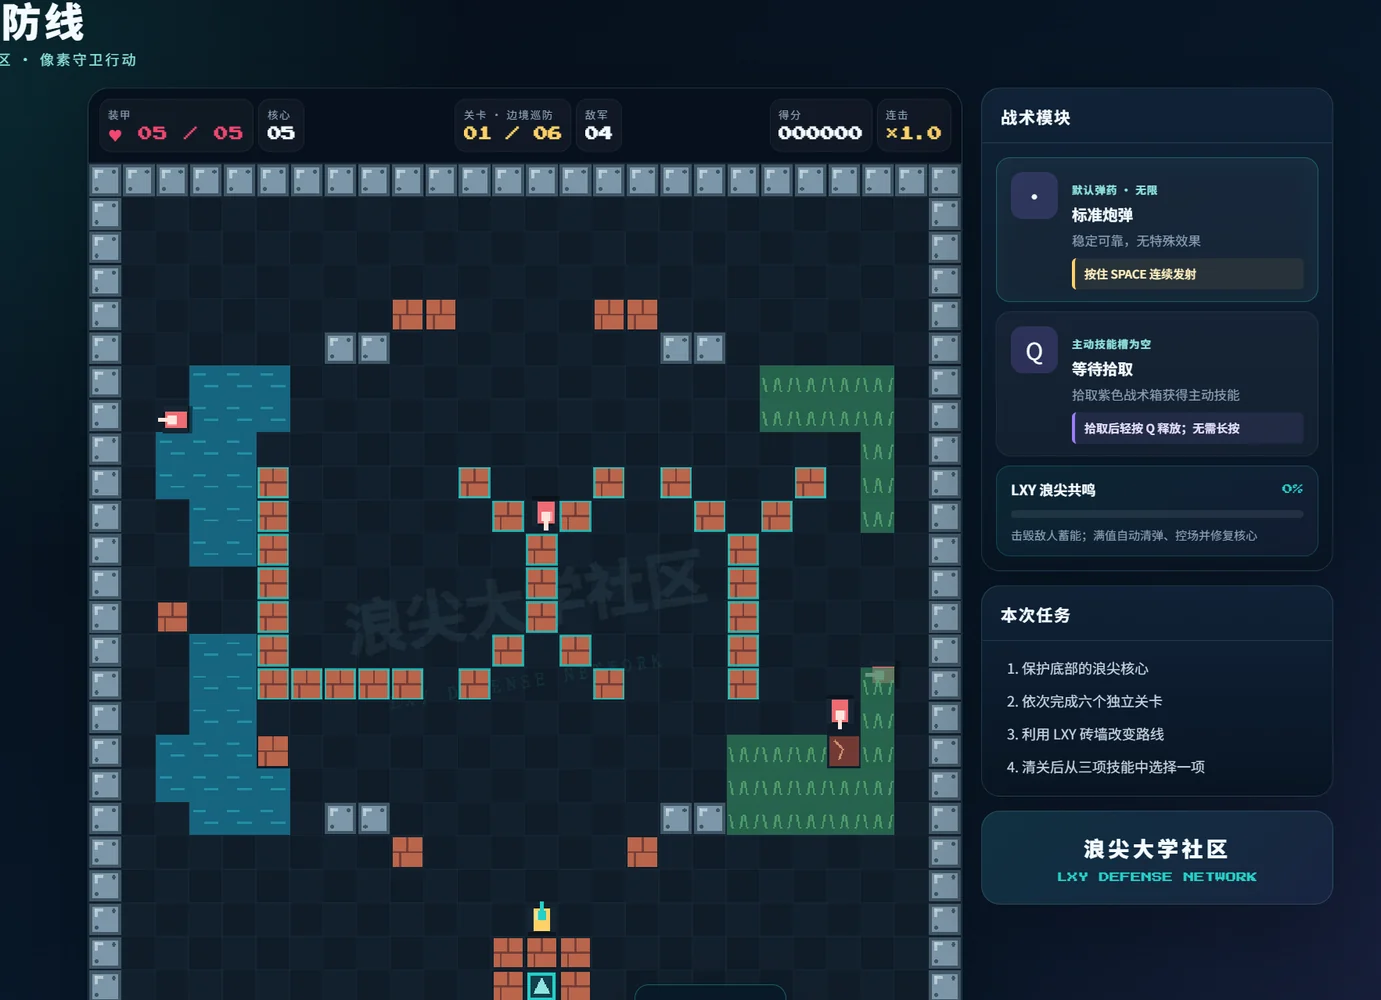
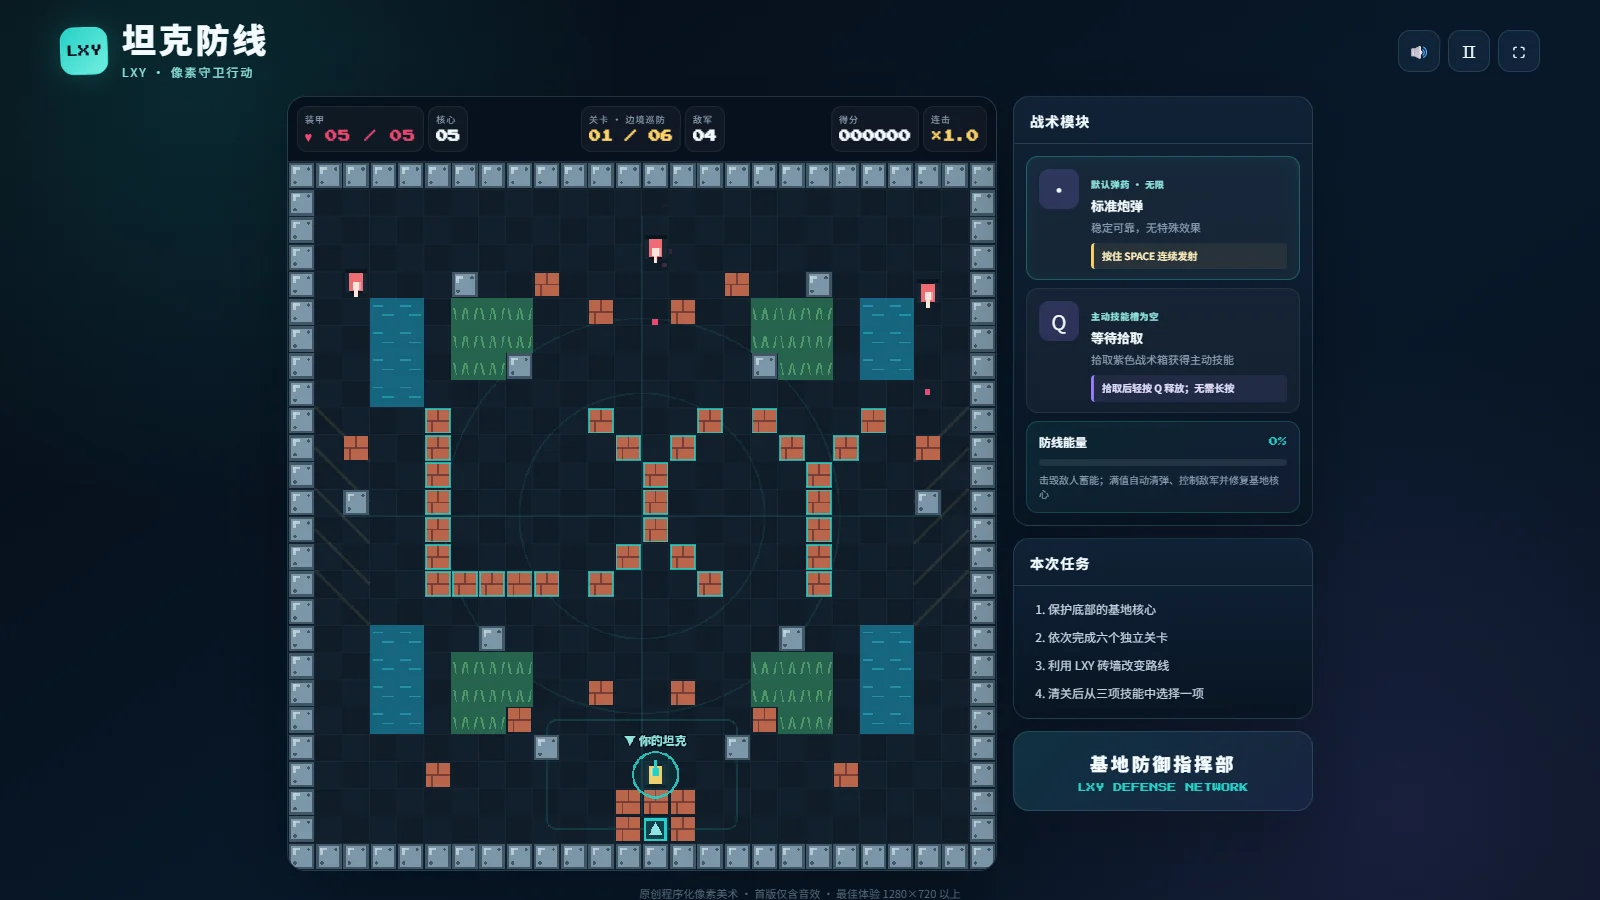
Refine original portfolio density and mobile layouts

diff --git a/styles.css b/styles.css
@@ -323,7 +323,7 @@ body.has-scrolled .site-header {
 
 .hero-contact-panel a {
   display: grid;
-  grid-template-columns: 58px minmax(0, 1fr);
+  grid-template-columns: 68px minmax(0, 1fr);
   gap: 12px;
   align-items: center;
   padding: 7px 12px;
@@ -341,6 +341,7 @@ body.has-scrolled .site-header {
 }
 
 .hero-contact-panel span {
+  white-space: nowrap;
   color: #e6d6a7;
   font-size: 0.66rem;
   font-weight: 800;
@@ -1122,7 +1123,9 @@ body.has-scrolled .site-header {
 
 .certificate-grid {
   display: grid;
-  grid-template-columns: repeat(4, minmax(0, 1fr));
+  grid-template-columns: repeat(3, minmax(0, 1fr));
+  width: min(100%, 960px);
+  margin: 0 auto;
   gap: 18px;
   align-items: stretch;
 }
@@ -1130,9 +1133,9 @@ body.has-scrolled .site-header {
 .certificate-card {
   display: flex;
   flex-direction: column;
-  gap: 16px;
+  gap: 12px;
   margin: 0;
-  padding: 14px 14px 20px;
+  padding: 12px 12px 16px;
   overflow: hidden;
   border: 1px solid rgba(105, 67, 39, 0.2);
   border-radius: 18px;
@@ -1150,19 +1153,13 @@ body.has-scrolled .site-header {
   transform: translateY(-4px);
 }
 
-.certificate-card-wide { grid-column: span 2; }
-.certificate-card-tall-first { grid-column: 2; }
-.certificate-card-tall-second { grid-column: 3; }
-
 .certificate-card img {
   width: 100%;
+  height: 174px;
   border-radius: 10px;
   object-fit: contain;
   background: #fffaf1;
 }
-
-.certificate-card-wide img { aspect-ratio: 3 / 2; }
-.certificate-card-tall img { height: 390px; }
 
 .certificate-card > span {
   display: grid;
@@ -1172,7 +1169,7 @@ body.has-scrolled .site-header {
 
 .certificate-card strong {
   color: #3e3025;
-  font-size: 0.94rem;
+  font-size: 0.88rem;
   line-height: 1.5;
 }
 
@@ -1664,11 +1661,9 @@ body.night-section-in-view .leaf-field { opacity: 0; }
   .interest-psychology { grid-column: span 2; }
   .works-heading-layout { grid-template-columns: minmax(0, 1fr) auto; gap: 34px; }
   .featured-work { grid-template-columns: 1fr; }
-  .phone-gallery { width: min(100%, 620px); min-height: 590px; margin: 0 auto; }
-  .certificate-grid { grid-template-columns: repeat(2, minmax(0, 1fr)); }
-  .certificate-card-wide { grid-column: span 2; }
-  .certificate-card-tall-first,
-  .certificate-card-tall-second { grid-column: auto; }
+  .phone-gallery { width: min(100%, 520px); min-height: 480px; margin: 0 auto; }
+  .certificate-grid { grid-template-columns: repeat(3, minmax(0, 1fr)); gap: 14px; }
+  .certificate-card img { height: 146px; }
   .closing-inner { grid-template-columns: 1fr; gap: 32px; }
   .closing-copy h2 { max-width: 11em; }
   .visit-stats,
@@ -1681,71 +1676,108 @@ body.night-section-in-view .leaf-field { opacity: 0; }
   .site-mark { width: 38px; height: 38px; font-size: 0.68rem; }
   .site-nav { justify-content: flex-start; gap: 16px; }
   .site-nav a { font-size: 0.78rem; }
-  .hero { min-height: 620px; }
+  /* 手机端按内容自然撑开首屏，不再用大段绝对定位留白。 */
+  .hero { min-height: 0; height: auto; }
   .hero-video { object-position: center; }
   .hero-overlay {
     background:
       linear-gradient(180deg, rgba(8, 20, 17, 0.08) 25%, rgba(8, 20, 17, 0.68) 100%),
       linear-gradient(90deg, rgba(8, 20, 17, 0.08), rgba(8, 20, 17, 0.2));
   }
-  .hero-content { top: auto; right: 24px; bottom: 142px; left: 24px; width: auto; transform: none; }
-  .avatar-orbit { width: 142px; height: 142px; }
-  .hero-avatar { width: 116px; height: 116px; }
-  .hero h1 { margin-top: 14px; font-size: 3.2rem; }
+  .hero-content { position: relative; inset: auto; width: var(--content); margin: 0 auto; padding: 32px 0 102px; transform: none; }
+  .avatar-orbit { width: 118px; height: 118px; }
+  .hero-avatar { width: 98px; height: 98px; }
+  .hero h1 { margin-top: 12px; font-size: 3rem; }
   .hero-meta { font-size: 0.9rem; letter-spacing: 0.1em; }
-  .hero-profile { font-size: 0.76rem; }
-  .hero-contact-panel { width: min(100%, 330px); margin-top: 11px; gap: 4px; }
-  .hero-contact-panel a { grid-template-columns: 52px minmax(0, 1fr); padding: 6px 10px; }
-  .hero-contact-panel strong { font-size: 0.68rem; }
-  .section { padding: 82px 0; }
-  .section-heading { margin-bottom: 42px; }
+  .hero-profile { margin-top: 2px; font-size: 0.78rem; }
+  .hero-contact-panel { width: min(100%, 330px); margin-top: 14px; gap: 5px; scroll-margin-top: 88px; }
+  .hero-contact-panel a { grid-template-columns: 68px minmax(0, 1fr); min-height: 44px; gap: 8px; padding: 7px 12px; }
+  .hero-contact-panel span { font-size: 0.7rem; }
+  .hero-contact-panel strong { font-size: 0.76rem; }
+  .scroll-cue { bottom: 12px; padding-top: 6px; }
+  .scroll-cue i { height: 22px; }
+  .section { padding: 44px 0; }
+  .section-heading { margin-bottom: 24px; }
+  .section-index { margin-bottom: 12px; padding: 5px 10px; font-size: 0.78rem; }
+  .section-heading h2,
+  .qixi-heading h2 { font-size: clamp(1.7rem, 6.8vw, 2.4rem); line-height: 1.35; }
+  .section-heading p,
+  .qixi-heading p { margin-top: 12px; font-size: 0.9rem; line-height: 1.75; }
   .section-interests,
   .section-works,
   .section-learning { background-attachment: scroll; }
   .section-about { background-attachment: scroll; }
-  .about-reading { padding: 26px 20px; border-radius: 24px; }
-  .about-inline-image { float: none; width: min(100%, 390px); aspect-ratio: 0.78; margin: 0 auto 30px; }
-  .about-copy { font-size: 1rem; line-height: 1.94; }
-  .interest-grid { grid-template-columns: 1fr; }
+  .about-reading { padding: 22px 18px; border-radius: 24px; }
+  .about-inline-image { float: right; width: 34%; aspect-ratio: 0.7; margin: 4px 0 12px 16px; border-width: 4px; border-radius: 64px 64px 14px 14px; }
+  .about-copy { font-size: 1rem; line-height: 1.85; }
+  .about-copy p { margin-bottom: 1.1em; }
+  .about-copy p:last-child { margin-bottom: 0; }
+  .about-copy p:first-child::first-letter { font-size: 3.2em; }
+  /* 兴趣与证书保留双列，正文不折叠、不截断。 */
+  .interest-grid { grid-template-columns: repeat(2, minmax(0, 1fr)); gap: 12px; }
   .interest-psychology { grid-column: auto; }
-  .interest-card { min-height: auto; }
-  .works-heading-layout { grid-template-columns: 1fr; }
-  .vertical-showcase { width: min(100%, 360px); min-height: 230px; justify-content: center; justify-self: center; }
-  .featured-work { padding: 24px 18px 34px; border-radius: 24px; }
-  .phone-gallery { min-height: 470px; }
-  .phone-shot { width: 48%; border-width: 5px; border-radius: 22px; }
-  .phone-shot-left { left: -2%; }
-  .phone-shot-main { left: 26%; }
-  .phone-shot-right { right: -2%; }
-  .project-grid { grid-template-columns: 1fr; }
-  .certificate-grid { grid-template-columns: 1fr; }
-  .certificate-card-wide,
-  .certificate-card-tall-first,
-  .certificate-card-tall-second { grid-column: auto; }
-  .certificate-card-tall img { height: 470px; }
-  .qixi-section { padding-bottom: 72px; }
-  .qixi-frame { min-height: 74svh; border-radius: 18px; }
+  .interest-card { display: flex; flex-direction: column; min-height: 0; padding: 16px 14px; border-radius: 18px; }
+  .interest-icon { width: 34px; height: 34px; border-radius: 11px; font-size: 0.8rem; }
+  .interest-card h3 { margin: 10px 0 7px; font-size: 1.08rem; }
+  .interest-card p { margin-bottom: 12px; font-size: 0.86rem; line-height: 1.7; }
+  .interest-card small { margin-top: auto; font-size: 0.67rem; letter-spacing: 0.02em; }
+  .works-heading-layout { grid-template-columns: minmax(0, 1fr) auto; gap: 16px; margin-bottom: 24px; align-items: center; }
+  .works-heading-layout .section-heading { margin-bottom: 0; }
+  .vertical-showcase { gap: 9px; min-height: 0; padding: 16px 10px; border-radius: 18px; }
+  .vertical-showcase > span { font-size: 0.7rem; letter-spacing: 0.02em; }
+  .featured-work { gap: 22px; padding: 20px 16px; border-radius: 24px; }
+  .phone-gallery { display: grid; grid-template-columns: repeat(3, minmax(0, 1fr)); align-items: center; gap: 8px; width: min(100%, 450px); min-height: 0; }
+  .phone-shot { position: static; width: 100%; border-width: 3px; border-radius: 14px; transform: none; }
+  .phone-shot-main { transform: none; }
+  .phone-shot-left,
+  .phone-shot-right { transform: none; }
+  .work-tags { gap: 6px; margin-bottom: 12px; }
+  .work-tags span { padding: 3px 8px; font-size: 0.67rem; }
+  .work-copy h3,
+  .project-card h3 { margin-bottom: 12px; font-size: 1.9rem; }
+  .work-copy p,
+  .project-card p { font-size: 0.9rem; line-height: 1.75; }
+  .feature-list { gap: 10px; margin: 14px 0 18px; font-size: 0.88rem; line-height: 1.75; }
+  .feature-list li { padding: 12px 12px 12px 36px; }
+  .feature-list li::before { top: 13px; left: 10px; }
+  .project-links,
+  .project-links-compact { gap: 8px; margin-top: 16px; }
+  .url-card { gap: 2px; padding: 9px 30px 9px 11px; border-radius: 12px; }
+  .url-card::after { right: 10px; }
+  .url-card strong { font-size: 0.69rem; }
+  .project-grid { grid-template-columns: 1fr; gap: 18px; margin-top: 18px; }
+  .project-card-body { padding: 20px 16px; }
+  .certificate-grid { grid-template-columns: repeat(2, minmax(0, 1fr)); gap: 12px; }
+  .certificate-card { gap: 8px; padding: 8px 8px 12px; border-radius: 14px; }
+  .certificate-card img { height: clamp(104px, 29vw, 160px); border-radius: 7px; }
+  .certificate-card > span { gap: 4px; padding: 0 2px; }
+  .certificate-card strong { font-size: 0.76rem; }
+  .certificate-card small { font-size: 0.65rem; }
+  .qixi-section { padding: 44px 0; }
+  .qixi-heading { margin-bottom: 22px; }
+  .button-night { margin-top: 16px; }
+  .qixi-frame { min-height: clamp(320px, 48svh, 460px); border-radius: 18px; }
   .closing-section,
   .closing-inner { min-height: auto; }
-  .closing-inner { padding: 100px 0 76px; }
-  .closing-copy h2 { font-size: clamp(2.85rem, 14vw, 4.8rem); }
-  .site-time-card { padding: 25px 18px 28px; border-radius: 22px; }
+  .closing-inner { gap: 20px; padding: 48px 0 36px; }
+  .closing-copy h2 { margin: 12px 0; font-size: clamp(2.3rem, 10vw, 3.6rem); line-height: 1.2; }
+  .closing-copy p { margin: 10px 0 0; font-size: 0.88rem; }
+  .site-time-card { padding: 20px 16px; border-radius: 22px; }
+  .site-time-head { gap: 8px; margin-bottom: 20px; }
   .uptime-digits { gap: 4px; }
   .uptime-unit strong { font-size: clamp(1.55rem, 8vw, 2.2rem); }
   .visit-stats { grid-template-columns: 1fr 1fr; gap: 10px; }
-  .visit-stat-card { min-height: 132px; padding: 18px 14px; }
+  .visit-stat-card { min-height: 110px; padding: 14px 12px; }
   .closing-orbit-one { right: -100px; }
   .closing-orbit-two { right: -42px; }
   .site-footer { padding: 16px; }
 }
 
 @media (max-width: 420px) {
-  .phone-gallery { min-height: 420px; }
-  .phone-shot { width: 51%; }
-  .phone-shot-main { left: 24.5%; }
-  .project-actions .button { width: 100%; }
-  .certificate-card-tall img { height: 420px; }
-  .site-time-head { align-items: flex-start; flex-direction: column; margin-bottom: 24px; }
+  .interest-grid,
+  .certificate-grid { gap: 10px; }
+  .interest-card { padding: 14px 12px; }
+  .site-time-head { font-size: 0.74rem; letter-spacing: 0.06em; }
   .visit-stat-card { grid-template-columns: 1fr; }
   .visit-stat-icon { display: none; }
 }

diff --git a/index.html b/index.html
@@ -52,7 +52,7 @@
         <p class="hero-meta" data-typewriter data-speed="76">河师大 · 软院 · 26级新生</p>
         <p class="hero-profile">男 · 软件工程（游戏动画方向）</p>
         <address class="hero-contact-panel" id="contact" aria-label="联系方式">
-          <a href="tel:15660645882"><span>电话</span><strong>156 6064 5882</strong></a>
+          <a href="tel:15660645882"><span>电话/微信</span><strong>156 6064 5882</strong></a>
           <a href="mailto:3603098347@qq.com"><span>邮箱</span><strong>3603098347@qq.com</strong></a>
           <a href="https://github.com/lixinyan1025-commits" target="_blank" rel="noopener noreferrer"><span>GitHub</span><strong>lixinyan1025-commits</strong></a>
         </address>
@@ -133,7 +133,7 @@
           <div class="project-grid">
             <article class="project-card" data-reveal>
               <a class="project-media" href="https://lixinyan1025-commits.github.io/tank-defense/" target="_blank" rel="noopener noreferrer" aria-label="在线试玩坦克防线">
-                <img src="assets/projects/tank-defense.webp" alt="坦克防线网页版游戏画面" loading="lazy" />
+                <img src="assets/projects/tank-defense.webp" alt="坦克防线最新版游戏实景：基地核心、LXY 地形与战术模块" width="1600" height="900" loading="lazy" />
               </a>
               <div class="project-card-body">
                 <div class="work-tags"><span>AI 辅助作品</span><span>网页游戏</span></div>
@@ -172,7 +172,7 @@
             <p>在了解 AI 相关内容的过程中完成的课程和认证。点击任意证书，可以查看完整原图。</p>
           </div>
 
-          <div class="certificate-grid">
+          <div class="certificate-grid" role="group" aria-label="六项证书，点击缩略图查看高清原图">
             <button class="certificate-card certificate-card-wide" type="button" data-certificate data-full="assets/certificates/original/clouder-agent-app.png" data-title="基于百炼平台构建智能体应用">
               <img src="assets/certificates/thumb/clouder-agent-app.webp" alt="基于百炼平台构建智能体应用证书" loading="lazy" />
               <span><strong>基于百炼平台构建智能体应用</strong><small>阿里云 Apsara Clouder 专项技能认证</small></span>

diff --git a/script.js b/script.js
@@ -323,11 +323,20 @@
 
   const leafField = document.querySelector(".leaf-field");
   let liveLeaves = 0;
+  const mobileLeaves = window.matchMedia("(max-width: 719px)");
+
+  // 旋转设备或缩窄窗口后立即回落到手机上限，不留下桌面端的数量。
+  mobileLeaves.addEventListener("change", () => {
+    if (!leafField) return;
+    const maximum = mobileLeaves.matches ? 20 : 38;
+    [...leafField.children].slice(maximum).forEach((leaf) => leaf.remove());
+    liveLeaves = leafField.childElementCount;
+  });
 
   function spawnLeaf(initial = false) {
     if (!leafField || reducedMotion.matches || document.hidden || body.classList.contains("night-section-in-view")) return;
-    const isMobile = window.innerWidth < 720;
-    const maximum = isMobile ? 11 : 20;
+    const isMobile = mobileLeaves.matches;
+    const maximum = isMobile ? 20 : 38;
     if (liveLeaves >= maximum) return;
 
     const leaf = document.createElement("i");
@@ -359,12 +368,13 @@
   }
 
   if (!reducedMotion.matches) {
-    const initialCount = window.innerWidth < 720 ? 8 : 14;
+    // 同时增加首屏数量与补充频率，避免只提高上限却看不到更多落叶。
+    const initialCount = mobileLeaves.matches ? 20 : 38;
     for (let index = 0; index < initialCount; index += 1) spawnLeaf(true);
 
     function scheduleLeaf() {
-      const isMobile = window.innerWidth < 720;
-      const delay = isMobile ? 1000 + Math.random() * 500 : 550 + Math.random() * 350;
+      const isMobile = mobileLeaves.matches;
+      const delay = isMobile ? 420 + Math.random() * 140 : 240 + Math.random() * 100;
       window.setTimeout(() => {
         spawnLeaf(false);
         scheduleLeaf();

diff --git a/README.md b/README.md
@@ -18,6 +18,14 @@
 - 竹叶与金色小叶飘落、纵向流水文字、减少动态效果支持和响应式布局
 - 页面自身不播放音乐；进入七夕展示后由嵌入网页管理其音乐
 
+## 2026-09-10 更新
+
+- 落叶上限调整为桌面 38 片、手机 20 片，同时增加首屏数量与生成频率；缩窄窗口后自动回落到手机上限。
+- 证书采用桌面三列、手机两列的紧凑缩略图，保持原比例，点击仍可查看六张高清原图。
+- 电话标签调整为“电话/微信”，号码和拨号链接不变。
+- 坦克防线截图重新采集自在线最新版的实际对局，保存为本地 WebP，不依赖外部图片服务。
+- 手机端缩小章节留白，使用双列兴趣卡片、并排 App 截图与紧凑作品排版；保留完整自述及全部作品链接，不使用强制缩放或文字截断。
+
 ## 背景图片来源
 
 - 兴趣页雾山湖景：[Wolfgang Hasselmann / Unsplash](https://unsplash.com/photos/1LoQjBROPD4)
